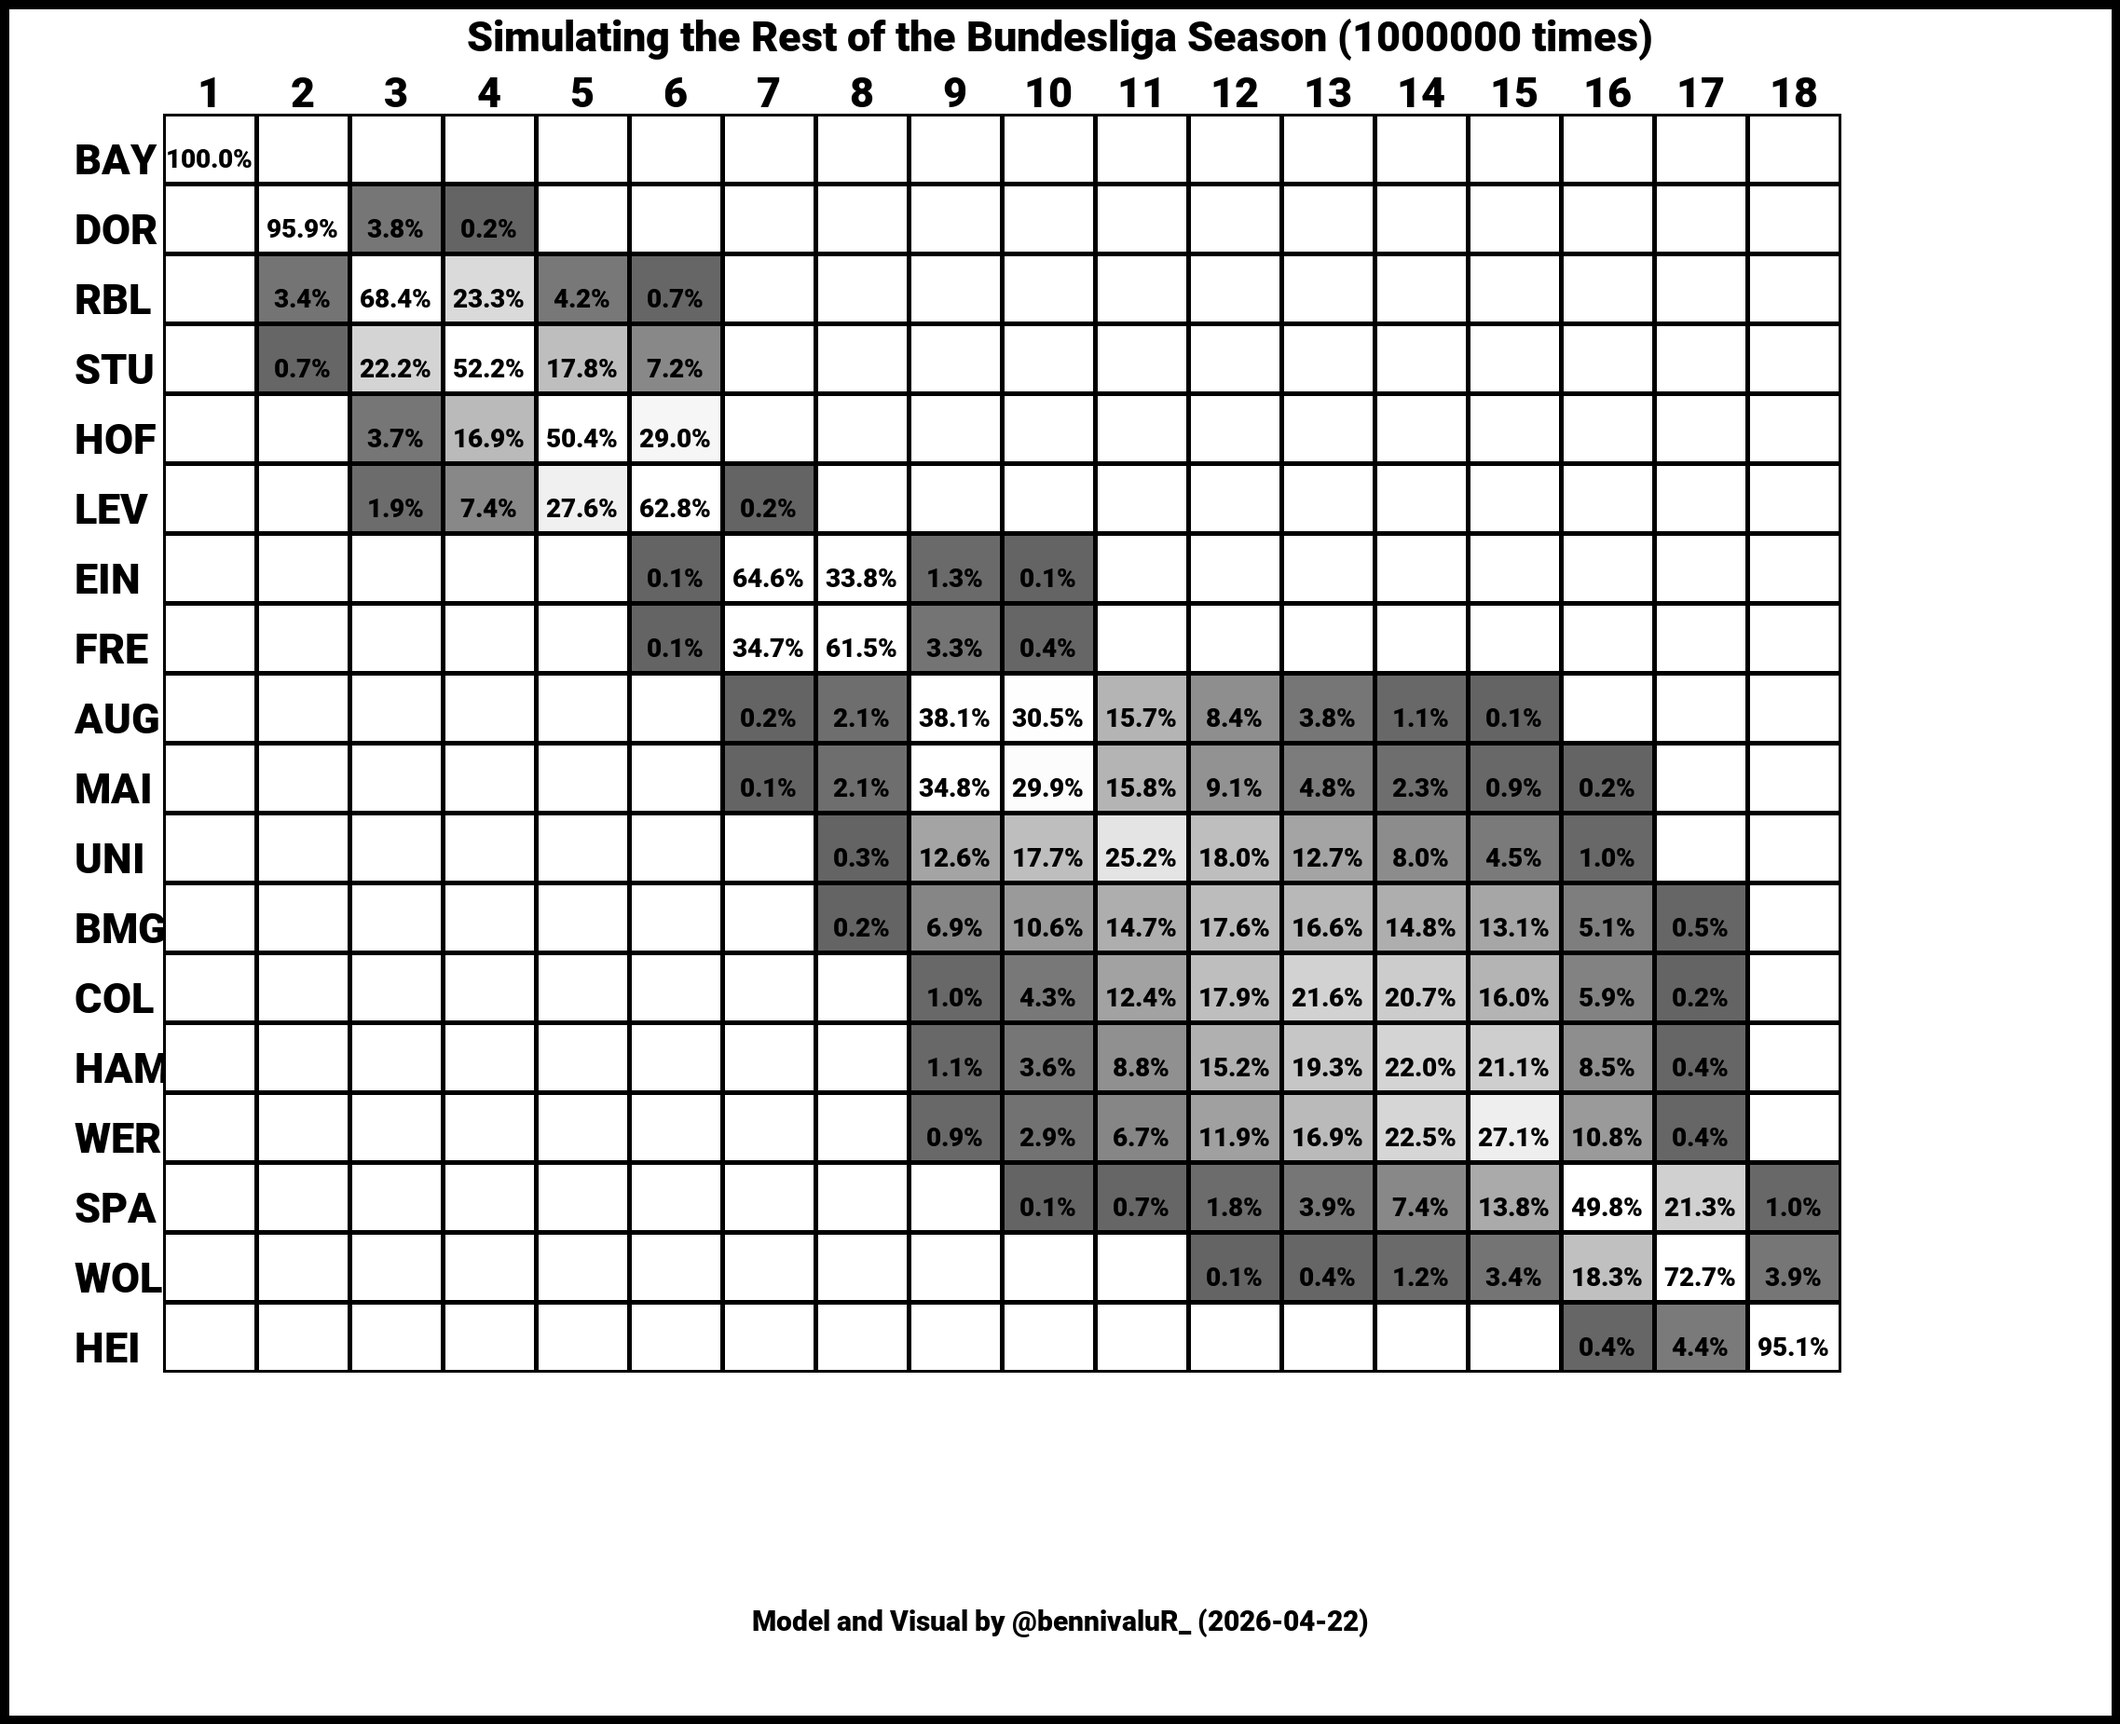
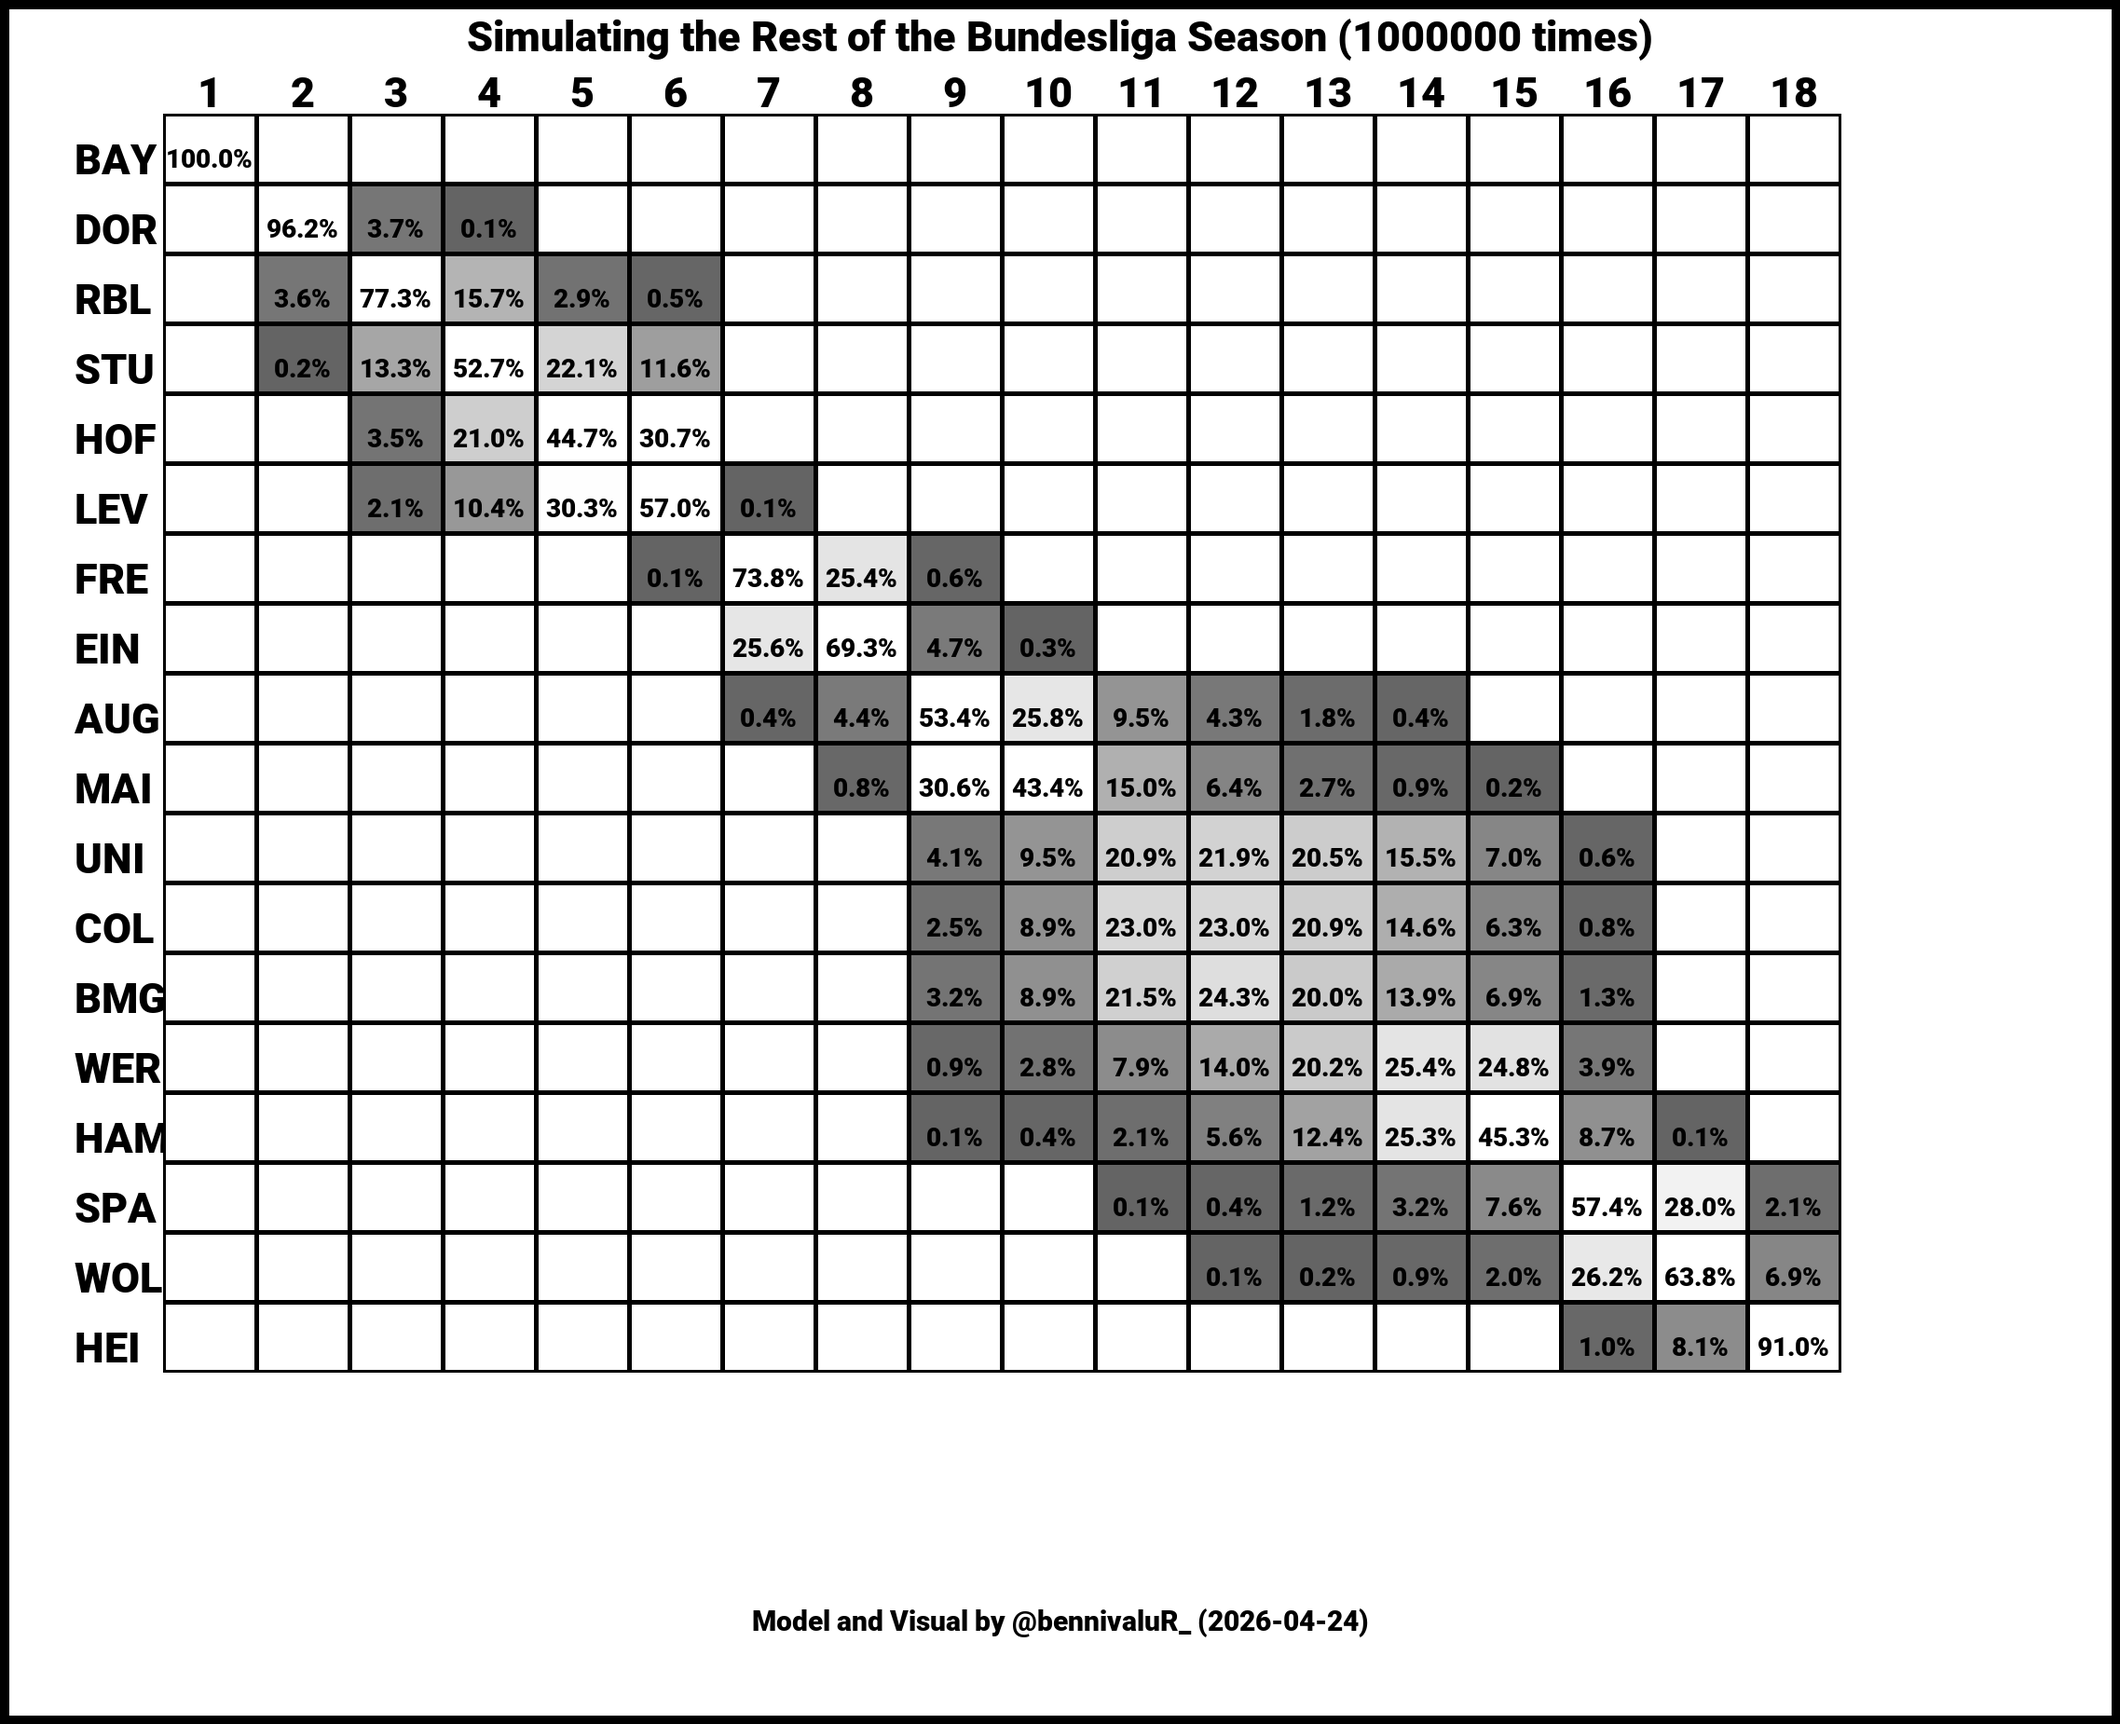
sorting fix

diff --git a/predictRestOfSeason.py b/predictRestOfSeason.py
@@ -11,7 +11,7 @@ def predictRestOfSeason(league, season):
         #order results by date
         games = sorted(games['dates'], key=lambda x: x['datetime'])
         #only keep results where isResult is true
-        results = [i for i in games if i['isResult'] == True]
+        results = [i for i in games if i['isResult'] == True][::-1]     
         remainingGames = [i for i in games if i['isResult'] == False]
 
     with open(f'settings.json', 'r') as f:
@@ -28,7 +28,9 @@ def predictRestOfSeason(league, season):
     for team in teams:
         #print(f"Calculating last 5 games xG for {team['title']}")
         team['lastXGs'] = getLastGamesXGs(team['id'], 5, results)
+        
         team['lastXGs'] = team['lastXGs'][0] - team['lastXGs'][1]
+        
         team['pts'] = 0
 
 
@@ -92,7 +94,7 @@ def simulateRestOfSeason(remainingGames, teams):
 
     
     #return teams ordered by points
-    #teams = sorted(teams, key=lambda x: x['pts'], reverse=True)
+    teams = sorted(teams, key=lambda x: x['pts'], reverse=True)
 
     return teams
 
@@ -115,8 +117,9 @@ if __name__ == "__main__":
             
             for i in range(numberOfSimulations):
                 res = simulateRestOfSeason(remainingGames, copy.deepcopy(teams))
+            
                 for index, team in enumerate(res, start=1):
-                    #print(f"Simulation {i+1}: {team['title']} finished in position {index}")
+                    #print(f"Simulation {i+1}: {team['title']} finished in position {index} with {team['pts']} points")
                     teamPositionsAtEndOfSeason[team['short_title']][index] += 1
 
 

diff --git a/runMe.py b/runMe.py
@@ -39,12 +39,15 @@ def getLastGamesXGs(team:any,nGames:int,results,date=None):
         if(g['a']['id'] == team):
             xG += float(g['xG']['a'])
             xGA += float(g['xG']['h'])
+        
     return [xG/len(games),xGA/len(games)]
 
 def calcWinOdds(xGSum,m,b):
     odds = (xGSum  * m) + b
     if odds <= 0:
-        return 0
+        return 0.05
+    if odds >= 1:
+        return 0.85
     return round(odds,2)
 
 def getData(leagues,seasons):
